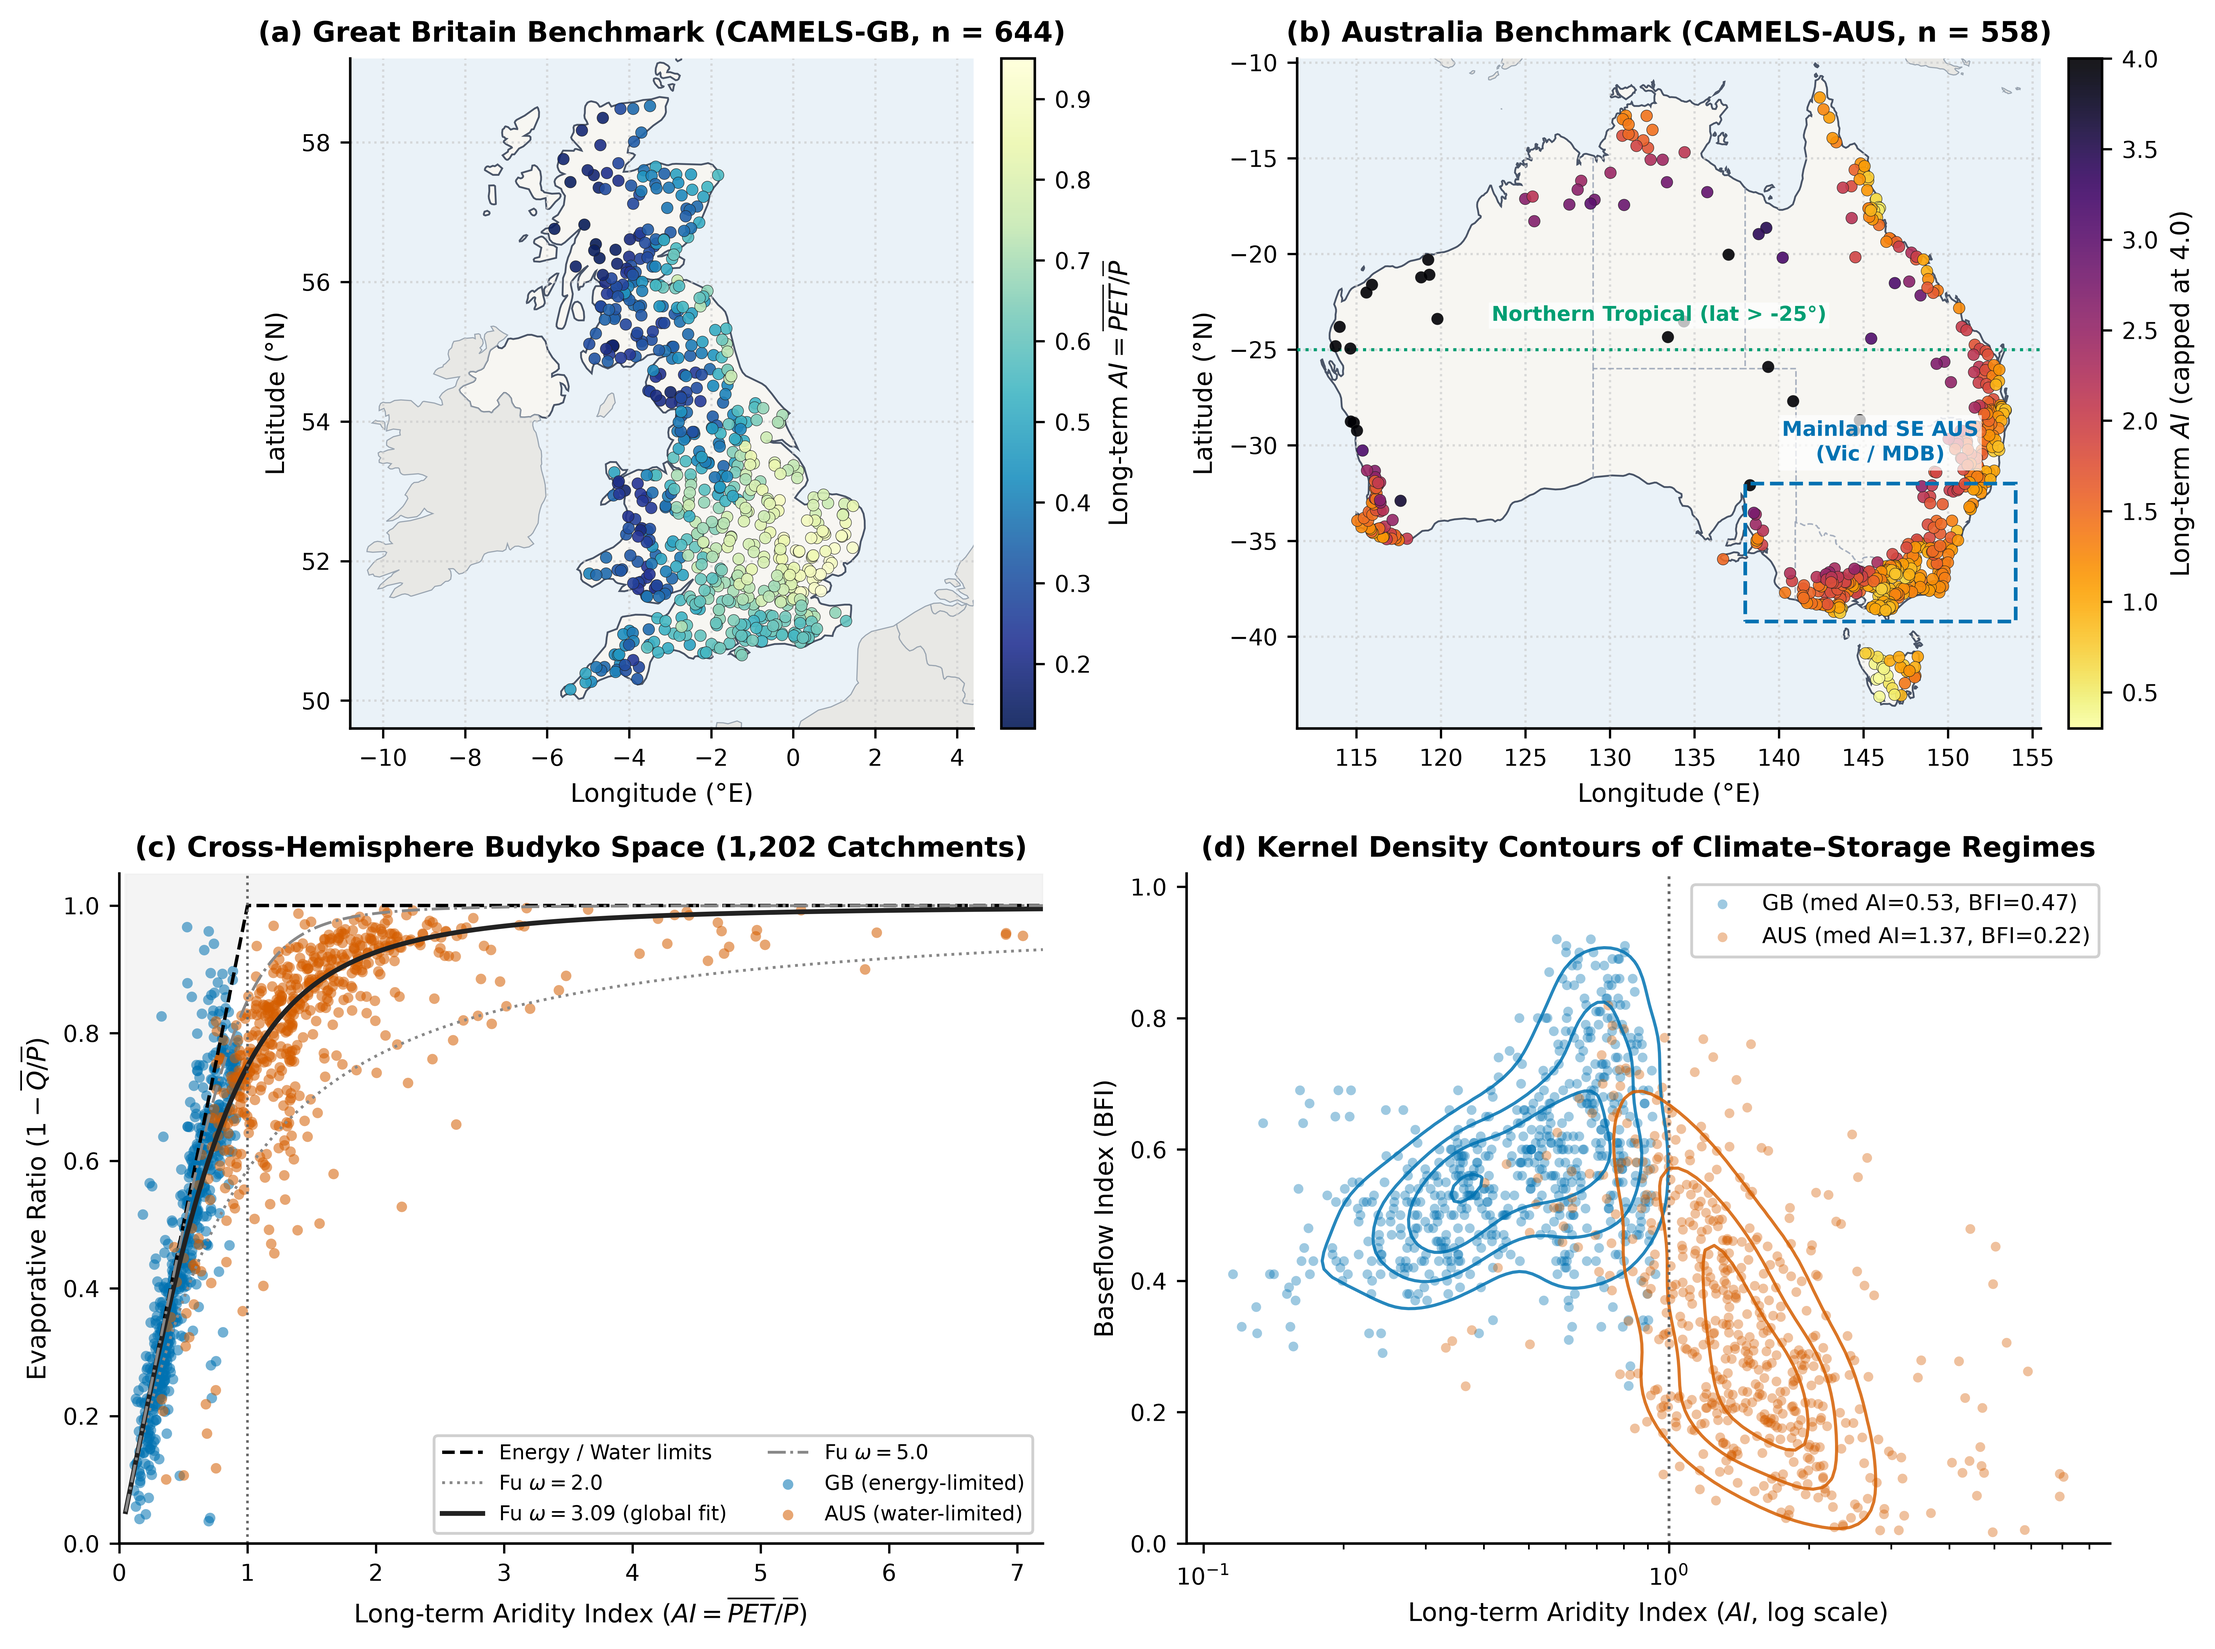
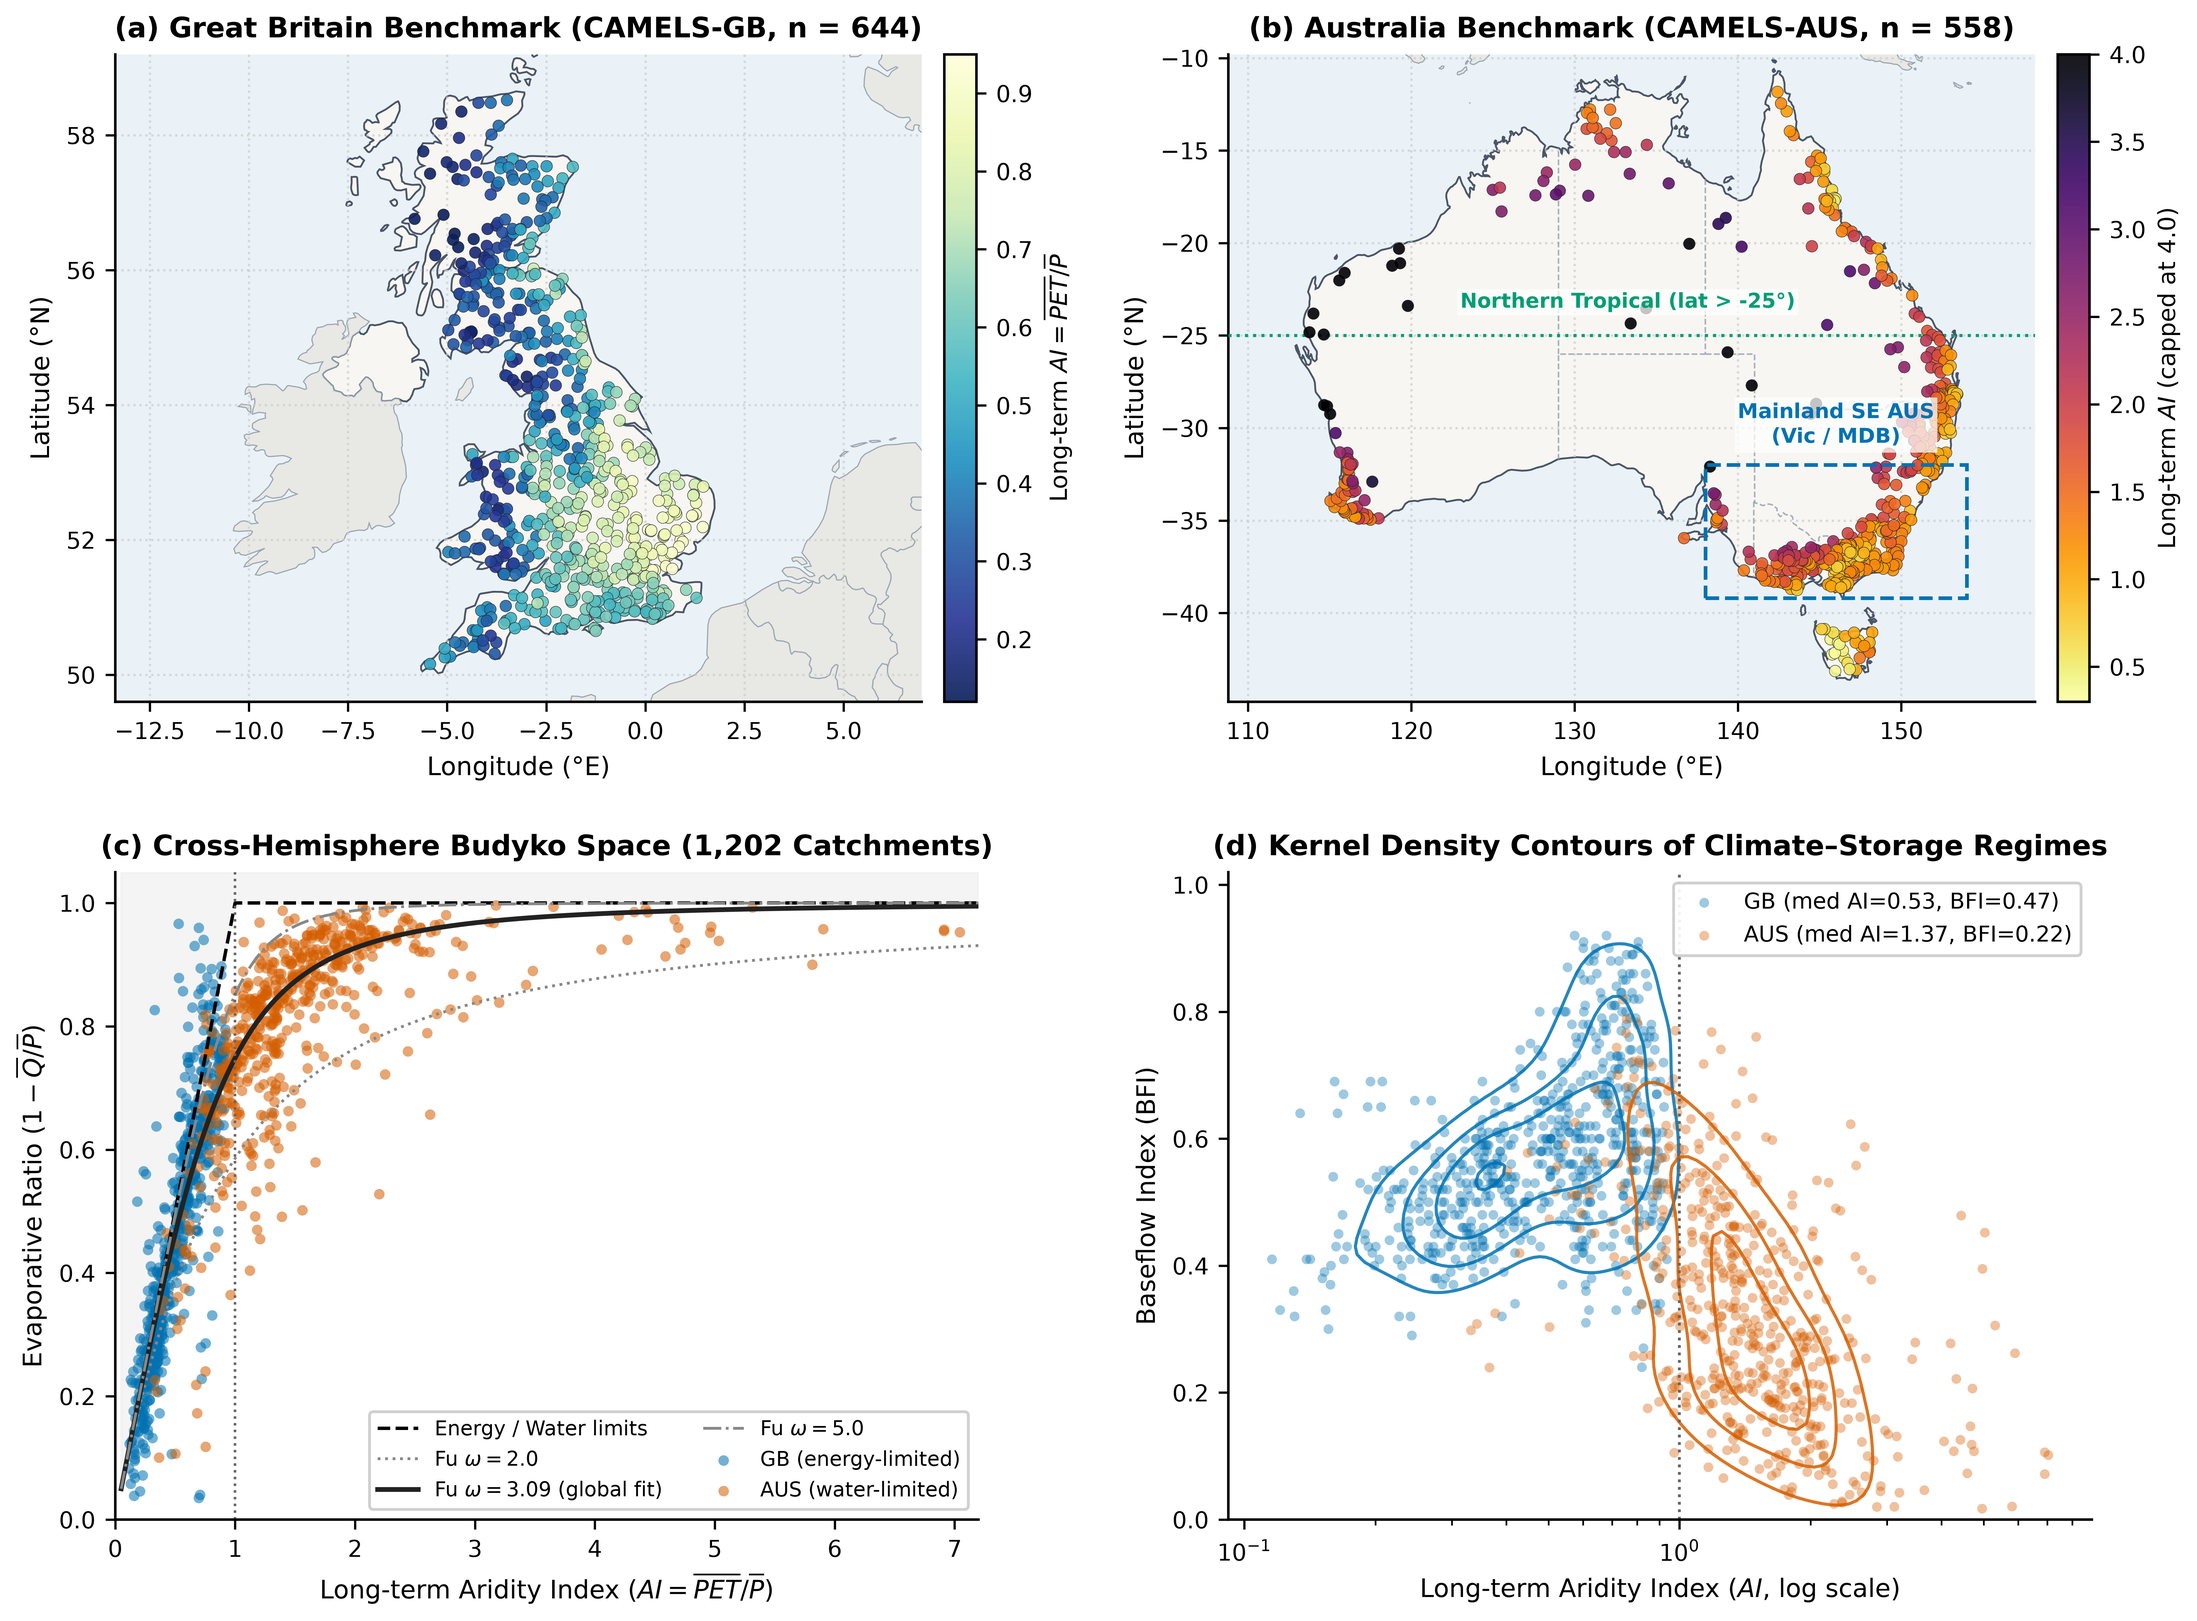
Lock symmetrical 2x2 grid alignment on Fig1

diff --git a/scripts/05_plot_figures.py b/scripts/05_plot_figures.py
@@ -162,18 +162,24 @@ def make_fig1(attrs):
     gb = [r for r in attrs if r["region"] == "GB"]
     aus = [r for r in attrs if r["region"] == "AUS"]
 
-    fig, axes = plt.subplots(2, 2, figsize=(11.0, 8.2))
-    ax1, ax2, ax3, ax4 = axes.ravel()
+    fig = plt.figure(figsize=(11.2, 8.4))
+    # Symmetrical 2x2 grid: left column [0.07..0.46], right column [0.56..0.95] (exact alignment top & bottom!)
+    ax1 = fig.add_axes([0.07, 0.56, 0.355, 0.38])
+    cax1 = fig.add_axes([0.435, 0.56, 0.014, 0.38])
+    ax2 = fig.add_axes([0.56, 0.56, 0.355, 0.38])
+    cax2 = fig.add_axes([0.925, 0.56, 0.014, 0.38])
+    ax3 = fig.add_axes([0.07, 0.08, 0.38, 0.38])
+    ax4 = fig.add_axes([0.56, 0.08, 0.38, 0.38])
 
-    # (a) GB spatial map (corrected high-latitude aspect ratio)
+    # (a) GB spatial map (true geographic aspect ratio, box locked to exact grid alignment)
     gb_lon = np.array([float(r["lon"]) for r in gb])
     gb_lat = np.array([float(r["lat"]) for r in gb])
     gb_ai = np.array([float(r["long_term_AI"]) for r in gb])
     draw_basemap(ax1, {"GBR"}, xlim=(-10.8, 4.4), ylim=(49.6, 59.2), draw_states=False)
     sc1 = ax1.scatter(gb_lon, gb_lat, c=gb_ai, cmap="YlGnBu_r", s=17, vmin=0.12, vmax=0.95, alpha=0.90, edgecolors="#222222", linewidths=0.18, zorder=4)
-    cb1 = plt.colorbar(sc1, ax=ax1, fraction=0.045, pad=0.03)
-    cb1.set_label(r"Long-term $AI = \overline{PET}/\overline{P}$")
-    ax1.set_aspect(1.0 / math.cos(math.radians(54.0)))
+    cb1 = plt.colorbar(sc1, cax=cax1)
+    cb1.set_label(r"Long-term $AI = \overline{PET}/\overline{P}$", fontsize=8.4)
+    ax1.set_aspect(1.0 / math.cos(math.radians(54.0)), adjustable="datalim")
     ax1.grid(True, ls=":", color="#CCCCCC", alpha=0.7)
     ax1.set_xlabel("Longitude (°E)")
     ax1.set_ylabel("Latitude (°N)")
@@ -185,16 +191,16 @@ def make_fig1(attrs):
     aus_ai = np.array([float(r["long_term_AI"]) for r in aus])
     draw_basemap(ax2, {"AUS"}, xlim=(111.5, 155.5), ylim=(-44.8, -9.8), draw_states=True)
     sc2 = ax2.scatter(aus_lon, aus_lat, c=np.clip(aus_ai, 0.3, 4.0), cmap="inferno_r", s=17, vmin=0.3, vmax=4.0, alpha=0.90, edgecolors="#222222", linewidths=0.18, zorder=4)
-    cb2 = plt.colorbar(sc2, ax=ax2, fraction=0.045, pad=0.03)
-    cb2.set_label(r"Long-term $AI$ (capped at 4.0)")
+    cb2 = plt.colorbar(sc2, cax=cax2)
+    cb2.set_label(r"Long-term $AI$ (capped at 4.0)", fontsize=8.4)
     rect = Rectangle((138.0, -39.2), 16.0, 7.2, lw=1.3, ls="--", edgecolor=C_BLUE, facecolor="none", zorder=5)
     ax2.add_patch(rect)
     ax2.text(146.0, -30.8, "Mainland SE AUS\n(Vic / MDB)", color=C_BLUE, fontsize=7.3, ha="center", fontweight="bold",
-             bbox=dict(facecolor="white", edgecolor="none", alpha=0.72, pad=1.0), zorder=6)
+             bbox=dict(facecolor="white", edgecolor="none", alpha=0.75, pad=1.0), zorder=6)
     ax2.axhline(-25.0, color=C_GREEN, ls=":", lw=1.1, zorder=3)
     ax2.text(123.0, -23.5, "Northern Tropical (lat > -25°)", color=C_GREEN, fontsize=7.2, fontweight="bold",
-             bbox=dict(facecolor="white", edgecolor="none", alpha=0.72, pad=1.0), zorder=6)
-    ax2.set_aspect(1.0 / math.cos(math.radians(-28.0)))
+             bbox=dict(facecolor="white", edgecolor="none", alpha=0.75, pad=1.0), zorder=6)
+    ax2.set_aspect(1.0 / math.cos(math.radians(-28.0)), adjustable="datalim")
     ax2.grid(True, ls=":", color="#CCCCCC", alpha=0.7)
     ax2.set_xlabel("Longitude (°E)")
     ax2.set_ylabel("Latitude (°N)")
@@ -239,8 +245,7 @@ def make_fig1(attrs):
     ax4.set_title("(d) Kernel Density Contours of Climate–Storage Regimes")
     ax4.legend(loc="upper right", frameon=True, framealpha=0.92)
 
-    fig.tight_layout()
-    fig.savefig(os.path.join(FIG_DIR, "Fig1.png"))
+    fig.savefig(os.path.join(FIG_DIR, "Fig1.png"), bbox_inches="tight", pad_inches=0.08)
     plt.close(fig)
 
 
